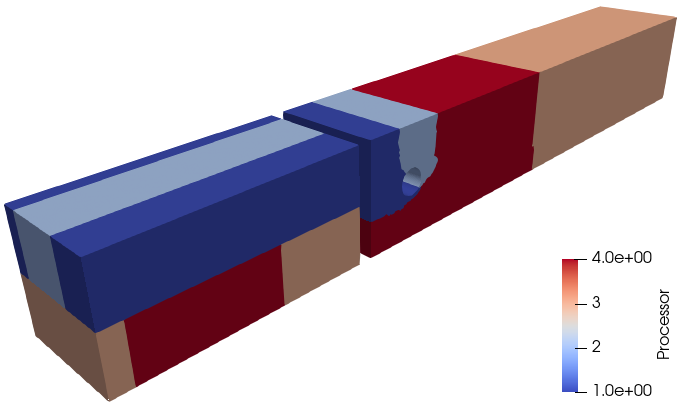
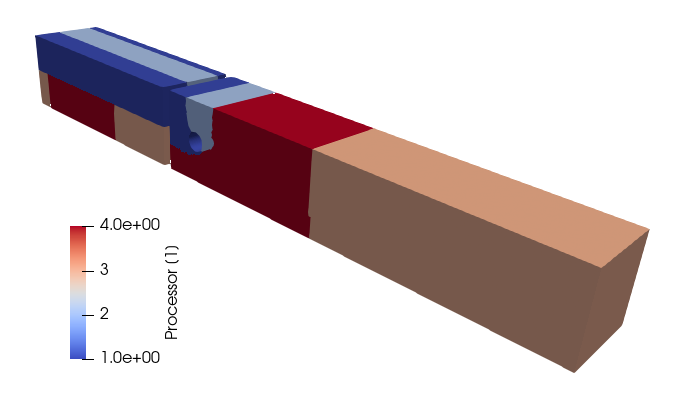
Expanded a little bit and fixed some sources.
On branch bojan_petsc_solvers_almost_alpha

modified:   readme.md
modified:   Documentation/Manual/Figures/cylinder_both_partitioned.png
new file:   Documentation/Manual/Figures/cylinder_final_option_4.png

diff --git a/readme.md b/readme.md
@@ -4058,59 +4058,66 @@ that eddies are not placed too frequently, only every 120 time steps:
 ```
  37   if(mod(curr_dt, 120) .ne. 0) return
 ```
-Also, we hope that after a certain number of time steps turbulence in the
-precursor domain will be self-sustainable, so we stop introducing them all
-together after the time step 1440:
+We hope that after a certain number of time steps turbulence in the
+precursor domain will be self-sustainable, so we stop introducing the eddies
+after the time step 1440:
 ```
  40   if(curr_dt > 1440) return
+```
+
+Also, we want to restrict perturbation with eddies only in precursor domain
+which is achiveve with this line:
+```
+ 49   ! Impose eddies only in precursor domain
+ 50   if(Grid % name .ne. 'PRECURSOR') return
 ```
 
 In order to place the eddies inside the domain, we must find its extents over
 nodes.  This is done in these lines:
 ```
- 54   !--------------------------------------!
- 55   !   Size of the computational domain   !
- 56   !                                      !
- 57   !   This algorithm is not silly. We    !
- 58   !   could have browsed through nodes   !
- 59   !   only, but then we might have en-   !
- 60   !   countered some hanging from GMSH   !
- 61   !--------------------------------------!
- 62   xmin = HUGE;  xmax = -HUGE
- 63   ymin = HUGE;  ymax = -HUGE
- 64   zmin = HUGE;  zmax = -HUGE
- 65   do c = 1, Grid % n_cells
- 66     do i_nod = 1, Grid % cells_n_nodes(c)
- 67       n = Grid % cells_n(i_nod, c)
- 68       xmin = min(xmin, Grid % xn(n));  xmax = max(xmax, Grid % xn(n))
- 69       ymin = min(ymin, Grid % yn(n));  ymax = max(ymax, Grid % yn(n))
- 70       zmin = min(zmin, Grid % zn(n));  zmax = max(zmax, Grid % zn(n))
- 71     end do
- 72   end do
- 73   call Comm_Mod_Global_Min_Real(xmin)
- 74   call Comm_Mod_Global_Min_Real(ymin)
- 75   call Comm_Mod_Global_Min_Real(zmin)
- 76   call Comm_Mod_Global_Max_Real(xmax)
- 77   call Comm_Mod_Global_Max_Real(ymax)
- 78   call Comm_Mod_Global_Max_Real(zmax)
- 79   lx = xmax - xmin
- 80   ly = ymax - ymin
- 81   lz = zmax - zmin
+ 57   !--------------------------------------!
+ 58   !   Size of the computational domain   !
+ 59   !                                      !
+ 60   !   This algorithm is not silly. We    !
+ 61   !   could have browsed through nodes   !
+ 62   !   only, but then we might have en-   !
+ 63   !   countered some hanging from GMSH   !
+ 64   !--------------------------------------!
+ 65   xmin = HUGE;  xmax = -HUGE
+ 66   ymin = HUGE;  ymax = -HUGE
+ 67   zmin = HUGE;  zmax = -HUGE
+ 68   do c = 1, Grid % n_cells
+ 69     do i_nod = 1, Grid % cells_n_nodes(c)
+ 70       n = Grid % cells_n(i_nod, c)
+ 71       xmin = min(xmin, Grid % xn(n));  xmax = max(xmax, Grid % xn(n))
+ 72       ymin = min(ymin, Grid % yn(n));  ymax = max(ymax, Grid % yn(n))
+ 73       zmin = min(zmin, Grid % zn(n));  zmax = max(zmax, Grid % zn(n))
+ 74     end do
+ 75   end do
+ 76   call Comm_Mod_Global_Min_Real(xmin)
+ 77   call Comm_Mod_Global_Min_Real(ymin)
+ 78   call Comm_Mod_Global_Min_Real(zmin)
+ 79   call Comm_Mod_Global_Max_Real(xmax)
+ 80   call Comm_Mod_Global_Max_Real(ymax)
+ 81   call Comm_Mod_Global_Max_Real(zmax)
+ 82   lx = xmax - xmin
+ 83   ly = ymax - ymin
+ 84   lz = zmax - zmin
 ```
-In lines 69 - 76, we browse through all the cells, and through individual nodes
-of each cell in line 70.  Field ```Grid % cells_n_nodes(c)``` holds the number
-of nodes for each cell.  In line 71, we take the grid node index (```i_nod```
-is just to browse locally through cell) and in lines 72 - 74, we are seeking
-for minimum and maximum coordinates in each direction.  Lines 77 - 82 ensure
+In lines 68 - 75, we browse through all the cells, and through individual nodes
+of each cell in line 69.  Field ```Grid % cells_n_nodes(c)``` holds the number
+of nodes for each cell.  In line 70, we take the grid node index (```i_nod```
+is just to browse locally through cell) and in lines 71 - 73, we are seeking
+for minimum and maximum coordinates in each direction.  Lines 76 - 81 ensure
 we work with extrema over all processors.  Variables ```lx```, ```ly``` and
 ```lz``` hold global domain dimensions.
 
 Once the domain dimensions are know, we can also set minimum and maximum size
 of the eddies:
 ```
- 83   ! Minimum and maximum size of eddies
- 84   rmin = min(ly, lz) / 10.0
- 85   rmax = min(ly, lz) /  3.0
+ 86   ! Minimum and maximum size of eddies
+ 87   rmin = min(ly, lz) / 10.0
+ 88   rmax = min(ly, lz) /  5.0
 ```
 We only compare eddy radius in plane orthogonal to the streamwise direction
 (assumed to be _x_ here) and that is why we only use dimension in _y_ and
@@ -4118,52 +4125,52 @@ _z_ to correlate eddy sizes.
 
 This function introduces 48 eddies (hard-coded) in line 90:
 ```
- 87   !-------------------------------!
- 88   !   Browse through all eddies   !
- 89   !-------------------------------!
- 90   do eddy = 1, 48
- 91
- 92     ! Random direction of the vortex
- 93     call random_number(sg);
- 94     if(sg < 0.5) then
- 95       sg = -1.0
- 96     else
- 97       sg = +1.0
- 98     end if
- 99
-100     ! Determine random position of a vortex
-101     call random_number(ro);     ro    = rmin + (rmax-rmin)*ro  ! rmin -> rmax
-102     call random_number(xo(1));  xo(1) = xmin + xo(1) * lx
-103     call random_number(zo(1));  zo(1) = zmin + zo(1) * lz
-104     call random_number(yo);     yo = ro + (ly - 2.0*ro) * y
-105
-106     ! Handle periodicity; that is: copy eddie in periodic directions
-107     xo(2:4) = xo(1)
-108     zo(2:4) = zo(1)
-109     if(xo(1) > lx/2.0) xo(3) = xo(1) - lx
-110     if(xo(1) < lx/2.0) xo(3) = xo(1) + lx
-111     if(zo(1) > lz/2.0) zo(2) = zo(1) - lz
-112     if(zo(1) < lz/2.0) zo(2) = zo(1) + lz
-113     xo(4) = xo(3)
-114     zo(4) = zo(2)
+ 90   !-------------------------------!
+ 91   !   Browse through all eddies   !
+ 92   !-------------------------------!
+ 93   do eddy = 1, 48
+ 94
+ 95     ! Random direction of the vortex
+ 96     call random_number(sg);
+ 97     if(sg < 0.5) then
+ 98       sg = -1.0
+ 99     else
+100       sg = +1.0
+101     end if
+102
+103     ! Determine random position of a vortex
+104     call random_number(ro);     ro    = rmin + (rmax-rmin)*ro  ! rmin -> rmax
+105     call random_number(xo(1));  xo(1) = xmin + xo(1) * lx
+106     call random_number(zo(1));  zo(1) = zmin + zo(1) * lz
+107     call random_number(yo);     yo = ro + (ly - 2.0*ro) * yo
+108
+109     ! Handle periodicity; that is: copy eddie in periodic directions
+110     xo(2:4) = xo(1)
+111     zo(2:4) = zo(1)
+112     if(xo(1) > lx/2.0) xo(3) = xo(1) - lx
+113     if(xo(1) < lx/2.0) xo(3) = xo(1) + lx
+114     if(zo(1) > lz/2.0) zo(2) = zo(1) - lz
+115     if(zo(1) < lz/2.0) zo(2) = zo(1) + lz
+116     xo(4) = xo(3)
+117     zo(4) = zo(2)
 ...
 ```
-Their sense of rotation is assigned randomly in lines 93 - 98, and their random
-positions (inside the domain) in lines 101 - 104.  Lines 107 - 114 take care of
+Their sense of rotation is assigned randomly in lines 96 - 101, and their random
+positions (inside the domain) in lines 104 - 107.  Lines 110 - 117 take care of
 periodicity, that is, make coppies of eddies in periodic directions (here _x_
 and _z_) depending on their relative position inside the domain.
 
 We set the lenght of each eddy to be six times its radius:
 ```
-116     ! Length of the eddy is six times the diameter
-117     lo = ro * 6.0
+119     ! Length of the eddy is six times the diameter
+120     lo = ro * 6.0
 ```
 We limit eddy extents with Gaussian distribution.  The sigma coefficients
 for Gaussian distribution in direction orthogonal to the flow (_y_ and _z_) and
 parallel to the flow (_x_) is set in lines 119 and 120:
 ```
-119     sig_yz = ro / 2.0
-120     sig_x  = lo / 2.0
+122     sig_yz = ro / 2.0
+123     sig_x  = lo / 2.0
 ```
 
 > **_Note:_** The ```sigma_yz``` would be the red functions in the figure
@@ -4178,48 +4185,48 @@ and ```wc```)
 figure introduced above.
 
 ```
-122     ! Superimpose eddies on the velocity field
-123     do dir = 1, 4
-124       do c = 1, Grid % n_cells
-125         xc = Grid % xc(c)
-126         yc = Grid % yc(c)
-127         zc = Grid % zc(c)
-128         wc = sg * ( (zc-zo(dir))/ro )
-129         vc = sg * ( (yo-yc     )/ro )
-130
-131         !--------------------------------------------+
-132         !   Gaussian distribution:                   !
-133         !                                - (x-a)^2   !
-134         !                  1           ^ ---------   !
-135         !   f(x) = ------------------ e  2 sigma^2   !
-136         !          sqrt(2 PI sigma^2)                !
-137         !                                            !
-138         !                                            !
-139         !          exp[-(x-a)^2 / (2 sigma^2)]       !
-140         !   f(x) = ---------------------------       !
-141         !              sqrt(2 PI sigma^2)            !
-142         !                                            !
-143         !          exp[-0.5 ((x-a) / sigma)^2]       !
-144         !   f(x) = ---------------------------       !
-145         !               sigma sqrt(2 PI)             !
-146         !--------------------------------------------!
-147         vc = vc / (sig_yz*sqrt(PI+PI))*exp(-0.5*((zc-zo(dir))/sig_yz)**2)
-148         vc = vc / (sig_yz*sqrt(PI+PI))*exp(-0.5*((yc-yo)     /sig_yz)**2)
-149
-150         wc = wc / (sig_yz*sqrt(PI+PI))*exp(-0.5*((zc-zo(dir))/sig_yz)**2)
-151         wc = wc / (sig_yz*sqrt(PI+PI))*exp(-0.5*((yc-yo)     /sig_yz)**2)
+125     ! Superimpose eddies on the velocity field
+126     do dir = 1, 4
+127       do c = 1, Grid % n_cells
+128         xc = Grid % xc(c)
+129         yc = Grid % yc(c)
+130         zc = Grid % zc(c)
+131         vc = sg * ( (zc-zo(dir))/ro )
+132         wc = sg * ( (yo-yc     )/ro )
+133
+134         !--------------------------------------------+
+135         !   Gaussian distribution:                   !
+136         !                                - (x-a)^2   !
+137         !                  1           ^ ---------   !
+138         !   f(x) = ------------------ e  2 sigma^2   !
+139         !          sqrt(2 PI sigma^2)                !
+140         !                                            !
+141         !                                            !
+142         !          exp[-(x-a)^2 / (2 sigma^2)]       !
+143         !   f(x) = ---------------------------       !
+144         !              sqrt(2 PI sigma^2)            !
+145         !                                            !
+146         !          exp[-0.5 ((x-a) / sigma)^2]       !
+147         !   f(x) = ---------------------------       !
+148         !               sigma sqrt(2 PI)             !
+149         !--------------------------------------------!
+150         vc = vc / (sig_yz*sqrt(PI+PI))*exp(-0.5*((zc-zo(dir))/sig_yz)**2)
+151         vc = vc / (sig_yz*sqrt(PI+PI))*exp(-0.5*((yc-yo)     /sig_yz)**2)
 152
-153         vc = vc / (sig_x *sqrt(PI+PI))*exp(-0.5*((xc-xo(dir))/sig_x)**2)
-154         wc = wc / (sig_x *sqrt(PI+PI))*exp(-0.5*((xc-xo(dir))/sig_x)**2)
+153         wc = wc / (sig_yz*sqrt(PI+PI))*exp(-0.5*((zc-zo(dir))/sig_yz)**2)
+154         wc = wc / (sig_yz*sqrt(PI+PI))*exp(-0.5*((yc-yo)     /sig_yz)**2)
 155
-156         ! Superimposed those fluctuations on spanwise and normal velocity comp.
-157         v % n(c) = v % n(c) + vc
-158         v % o(c) = v % o(c) + vc
-159         w % n(c) = w % n(c) + wc
-160         w % o(c) = w % o(c) + wc
-161       end do
-162     end do
-163   end do
+156         vc = vc / (sig_x *sqrt(PI+PI))*exp(-0.5*((xc-xo(dir))/sig_x)**2)
+157         wc = wc / (sig_x *sqrt(PI+PI))*exp(-0.5*((xc-xo(dir))/sig_x)**2)
+158
+159         ! Superimposed those fluctuations on spanwise and normal velocity comp.
+160         v % n(c) = v % n(c) + vc
+161         v % o(c) = v % o(c) + vc
+162         w % n(c) = w % n(c) + wc
+163         w % o(c) = w % o(c) + wc
+164       end do
+165     end do
+166   end do
 ```
 
 If all this seems a bit complicated to you, don't worry, this same function
@@ -4238,3 +4245,18 @@ and run:
 ```
 mpirun -np 4 ./Process > out_04 &
 ```
+
+After a minute of simulation time, the results in the precursor and in the
+principal computational domain look like this:
+
+![!](Documentation/Manual/Figures/cylinder_final_option_4.png "")
+
+Solution in the precursor domain is periodic in streamwise and spanwise
+direction, and the leftmost plane from the precursor is coppied to the inlet
+of the principal computaional domain.  This case only demonstrates how to set
+boundary condidtion from a precursor domain.  In real application, the results
+from the precursor domain should be put under scrutiny themselves; is mesh
+fine enough, did we use proper physical models, is the domain large enough in
+periodic directions, are some of the questions which should be seriously
+addressed.
+
